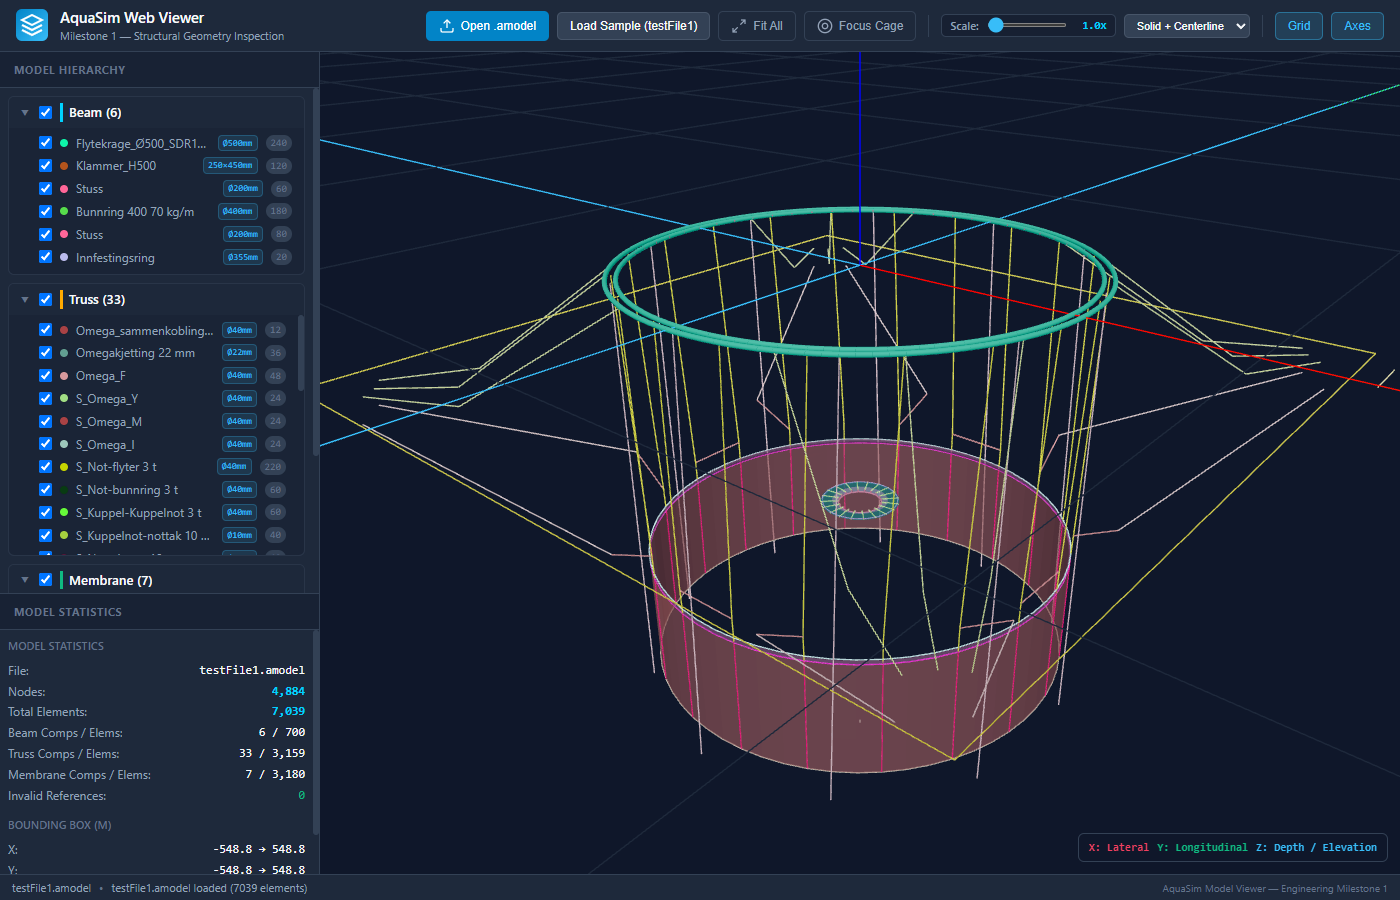
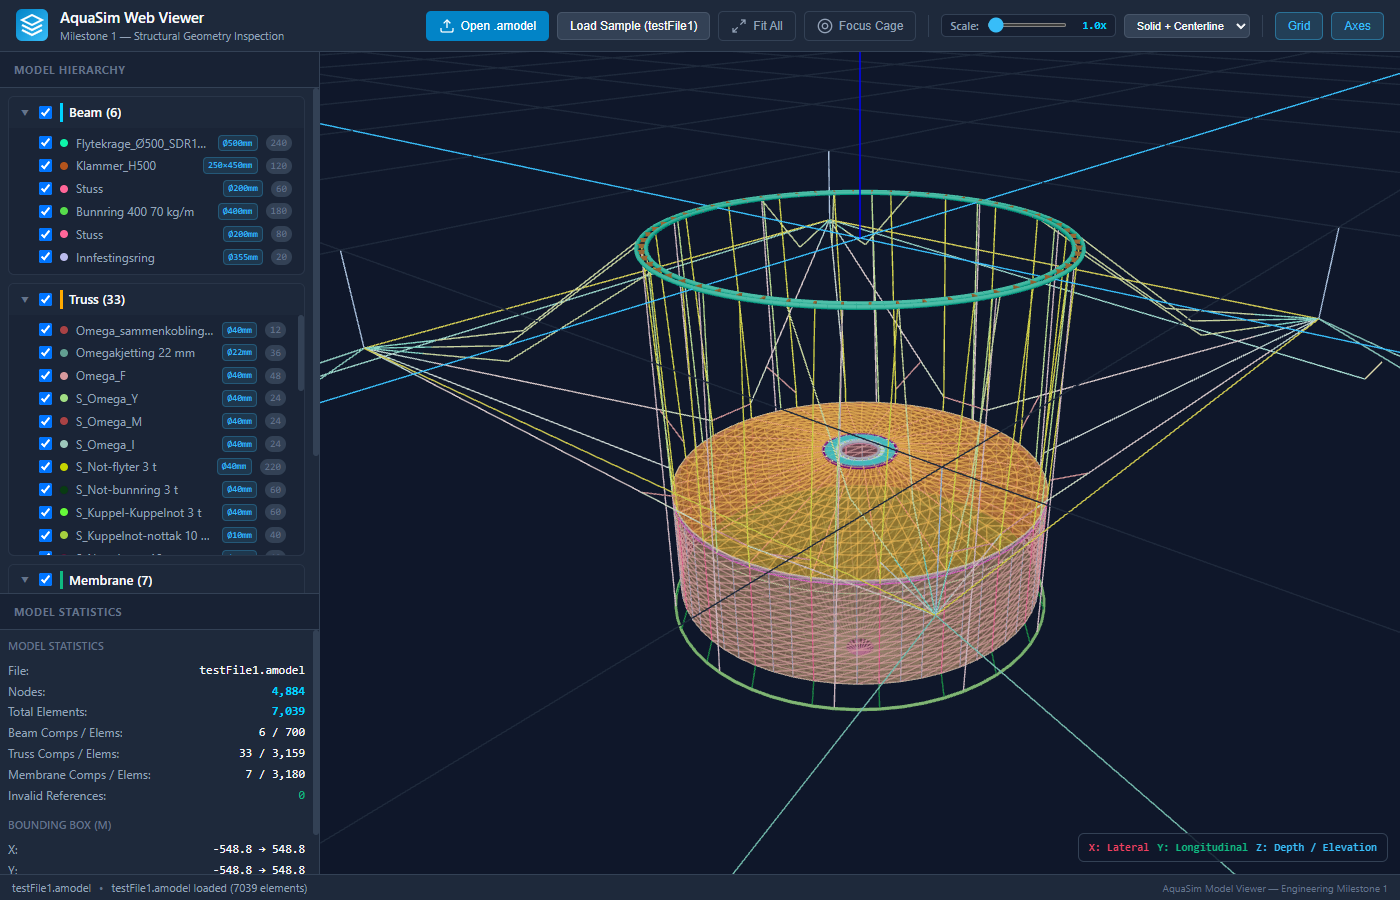
fix: resolve membrane display issue by fixing children array mutation and depthWrite handling

diff --git a/src/viewer/membraneRenderer.ts b/src/viewer/membraneRenderer.ts
@@ -70,19 +70,38 @@ export function createMembraneGroup(
             ? new THREE.Color(comp.color.r, comp.color.g, comp.color.b)
             : defaultColor;
 
+        // Solid translucent net surface with depthWrite: false to prevent occlusion of nested nets
         const material = new THREE.MeshStandardMaterial({
             color: compColor,
             side: THREE.DoubleSide,
             transparent: true,
             opacity: opacity,
+            depthWrite: false,
             wireframe: wireframe,
             roughness: 0.6,
             metalness: 0.1
         });
 
         const mesh = new THREE.Mesh(geometry, material);
-        mesh.name = `membrane_${comp.id ?? compIndex}_${comp.name}`;
-        mesh.userData = {
+        mesh.name = `membrane_solid_${comp.id ?? compIndex}`;
+
+        // Wireframe netting overlay to highlight net twine grid
+        const wireMaterial = new THREE.MeshBasicMaterial({
+            color: compColor,
+            wireframe: true,
+            transparent: true,
+            opacity: 0.4,
+            depthWrite: false
+        });
+        const wireMesh = new THREE.Mesh(geometry, wireMaterial);
+        wireMesh.name = `membrane_wire_${comp.id ?? compIndex}`;
+
+        const compGroup = new THREE.Group();
+        compGroup.name = `membrane_${comp.id ?? compIndex}_${comp.name}`;
+        compGroup.add(mesh);
+        compGroup.add(wireMesh);
+
+        compGroup.userData = {
             aquaSimType: 'membrane',
             componentName: comp.name,
             componentId: comp.id ?? compIndex,
@@ -90,7 +109,7 @@ export function createMembraneGroup(
             metadata: comp.metadata
         };
 
-        membraneGroup.add(mesh);
+        membraneGroup.add(compGroup);
     });
 
     return membraneGroup;

diff --git a/tests/renderers.test.ts b/tests/renderers.test.ts
@@ -117,19 +117,22 @@ describe('AquaSim 3D Renderers and Geometry', () => {
         const membraneGroup = createMembraneGroup(model.membranes, model.nodes);
 
         expect(membraneGroup.children.length).toBe(1);
-        const mesh = membraneGroup.children[0] as THREE.Mesh;
-        expect(mesh).toBeInstanceOf(THREE.Mesh);
-        expect(mesh.userData.aquaSimType).toBe('membrane');
-        expect(mesh.userData.componentName).toBe('NetMesh');
-        expect(mesh.userData.elementCount).toBe(1);
+        const compGroup = membraneGroup.children[0] as THREE.Group;
+        expect(compGroup.userData.aquaSimType).toBe('membrane');
+        expect(compGroup.userData.componentName).toBe('NetMesh');
+        expect(compGroup.userData.elementCount).toBe(1);
+
+        const solidMesh = compGroup.children[0] as THREE.Mesh;
+        expect(solidMesh).toBeInstanceOf(THREE.Mesh);
 
         // 1 quad = 2 triangles = 6 vertices = 18 floats in BufferAttribute
-        const posAttr = mesh.geometry.getAttribute('position');
+        const posAttr = solidMesh.geometry.getAttribute('position');
         expect(posAttr.count).toBe(6);
 
-        // Check material side is DoubleSide
-        const mat = mesh.material as THREE.MeshStandardMaterial;
+        // Check material side is DoubleSide and depthWrite is false
+        const mat = solidMesh.material as THREE.MeshStandardMaterial;
         expect(mat.side).toBe(THREE.DoubleSide);
         expect(mat.transparent).toBe(true);
+        expect(mat.depthWrite).toBe(false);
     });
 });

diff --git a/src/viewer/AquaSimViewer.ts b/src/viewer/AquaSimViewer.ts
@@ -172,7 +172,7 @@ export class AquaSimViewer {
             scaleFactor: this.currentScaleFactor,
             renderMode: this.renderMode
         });
-        beams.children.forEach((obj) => {
+        [...beams.children].forEach((obj) => {
             const id = obj.userData.componentId ?? obj.name;
             this.componentObjectMap.set(`beam_${id}`, obj);
             this.beamGroup.add(obj);
@@ -183,15 +183,15 @@ export class AquaSimViewer {
             scaleFactor: this.currentScaleFactor,
             renderMode: this.renderMode
         });
-        trusses.children.forEach((obj) => {
+        [...trusses.children].forEach((obj) => {
             const id = obj.userData.componentId ?? obj.name;
             this.componentObjectMap.set(`truss_${id}`, obj);
             this.trussGroup.add(obj);
         });
 
-        // 3. Build Membranes
+        // 3. Build Membranes with all components preserved
         const membranes = createMembraneGroup(model.membranes, model.nodes);
-        membranes.children.forEach((obj) => {
+        [...membranes.children].forEach((obj) => {
             const id = obj.userData.componentId ?? obj.name;
             this.componentObjectMap.set(`membrane_${id}`, obj);
             this.membraneGroup.add(obj);
